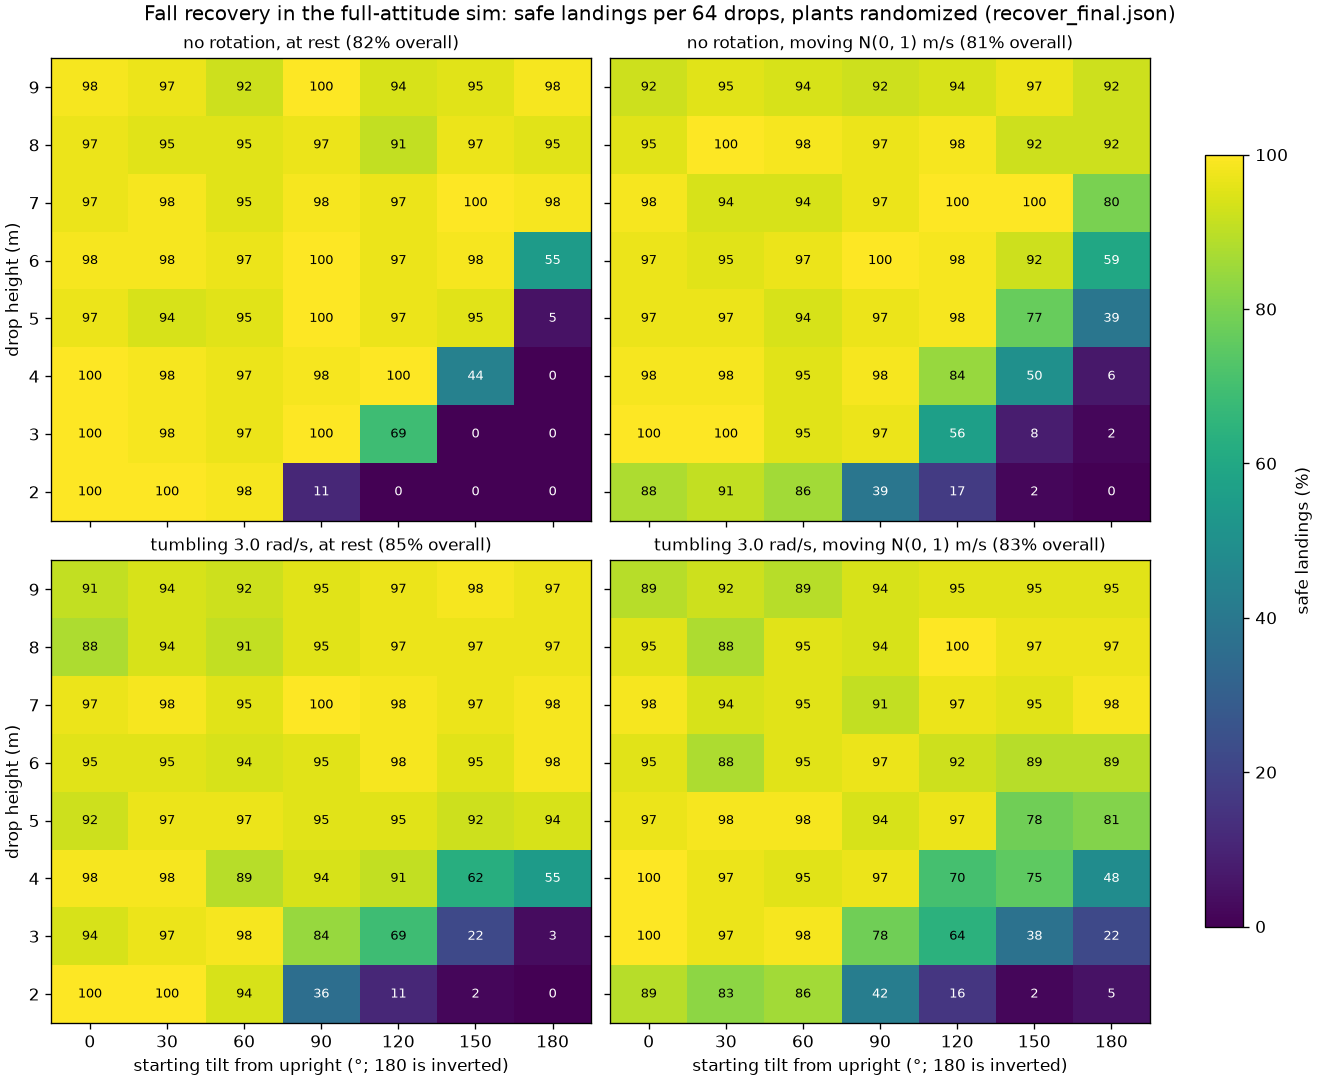
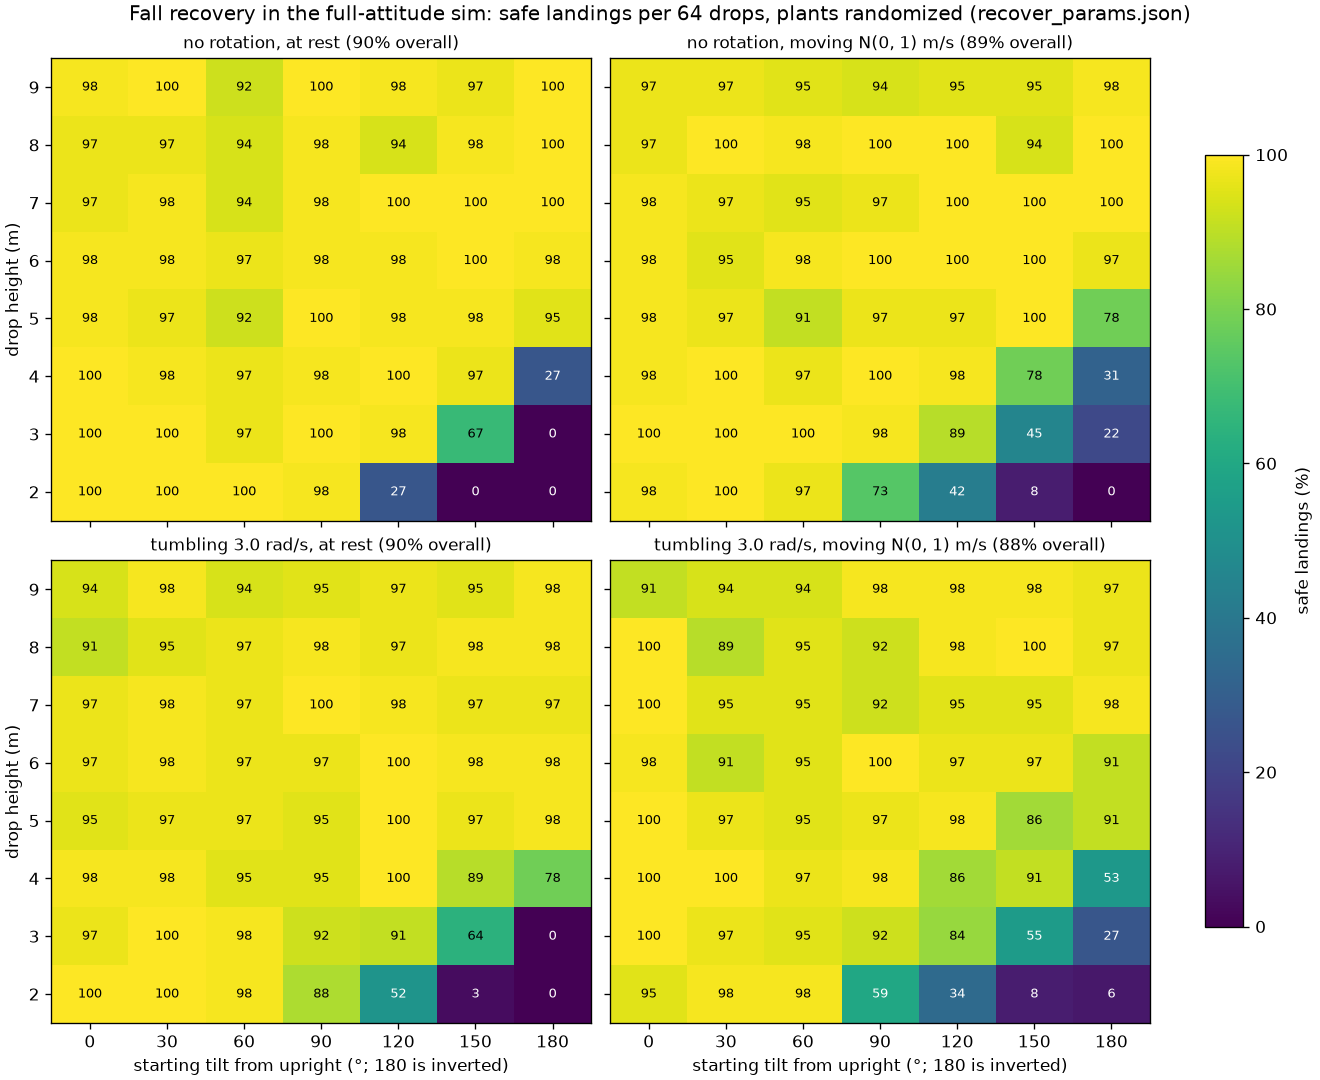
NOTES and map: recovery at 89% over the drop map, its edge and the open-loop physics bound

diff --git a/src/sw/sim/models/NOTES.md b/src/sw/sim/models/NOTES.md
@@ -144,7 +144,7 @@ All checks use only the recorded flights; nothing here is a new physical measure
 
 **Ground contact (validate_contact.py).** 500 motors-off touchdowns (vertical 0.3–2 m/s, horizontal 0–2 m/s, tilt 0–40° in roll or pitch, sliding toward or away from the low side) in rigid.py and in MuJoCo's own contact physics with the same body and contact points. They agree on which landings end upright in 100% of cases (97% with the CAD inertia). The legless belly tips on this grid only when pitched 40° nose-down while sliding forward at 1–1.5 m/s or more. Peak contact forces in rigid.py are about 1.7× MuJoCo's on level drops; GROUND_K 650 / GROUND_C 25 would match them, but neither engine's stiffness is measured, so force thresholds are only a loose backstop to the touchdown-speed limit.
 
-**Recovery (recover.py, models/recover_params.json; map from recover_map.py).** Drops from 2–9 m at 0–180° from upright, still or tumbling at 3 rad/s, at rest or moving N(0, 1) m/s, plants randomized, 64 drops per cell: 83% safe overall. Within 60° of upright, 86–100% at every height, touching down at a median 0.9–1.1 m/s and 2–7°. From 5–9 m, 88–100% from nearly any start, inverted included. What fails is low and steep: on its side at 2 m, 120–150° below 4 m, inverted below about 5 m. There is not enough height to right and then brake, and these hit at 2–7 m/s. The controller senses only the IMU, plus the height it started from to within 0.3 m.
+**Recovery (recover.py, models/recover_params.json; map from recover_map.py).** Drops from 2–9 m at 0–180° from upright, still or tumbling at 3 rad/s, at rest or moving N(0, 1) m/s, plants randomized, 64 drops per cell: 89% safe overall (83% before detecting the fall in 0.05 s instead of 0.15 s and rolling the long way round past 165°). Within 60° of upright, 86–100% at every height, touching down at a median 0.9–1.1 m/s and 2–7°. From 5–9 m, 88–100% from nearly any start, inverted included. Every cell is at least 92% safe from 2 m at 90°, 3 m at 120°, 4 m at 150° and 5 m inverted; below that edge there is not enough height. An open-loop bang-bang bound on the motor model rights and brakes within 0.7/1.1/1.8/3.1 m from 90/120/150/180° motors-off, so about 1–2 m is still left on the table (the controller's rate loop keeps the far motor low until late, where the optimum ramps it during the spin). The controller senses only the IMU, plus the height it started from to within 0.3 m.
 
 **Flip (flip.py, models/flip_params.json).** From a 3 m hover over 256 randomized plants: 96.5% clean (never touches the ground, ends within 10° of upright and still), median height lost 0.48 m (90th percentile 0.91), after punching up a median 1.1 m first. 100% clean on the nominal plant.
 
